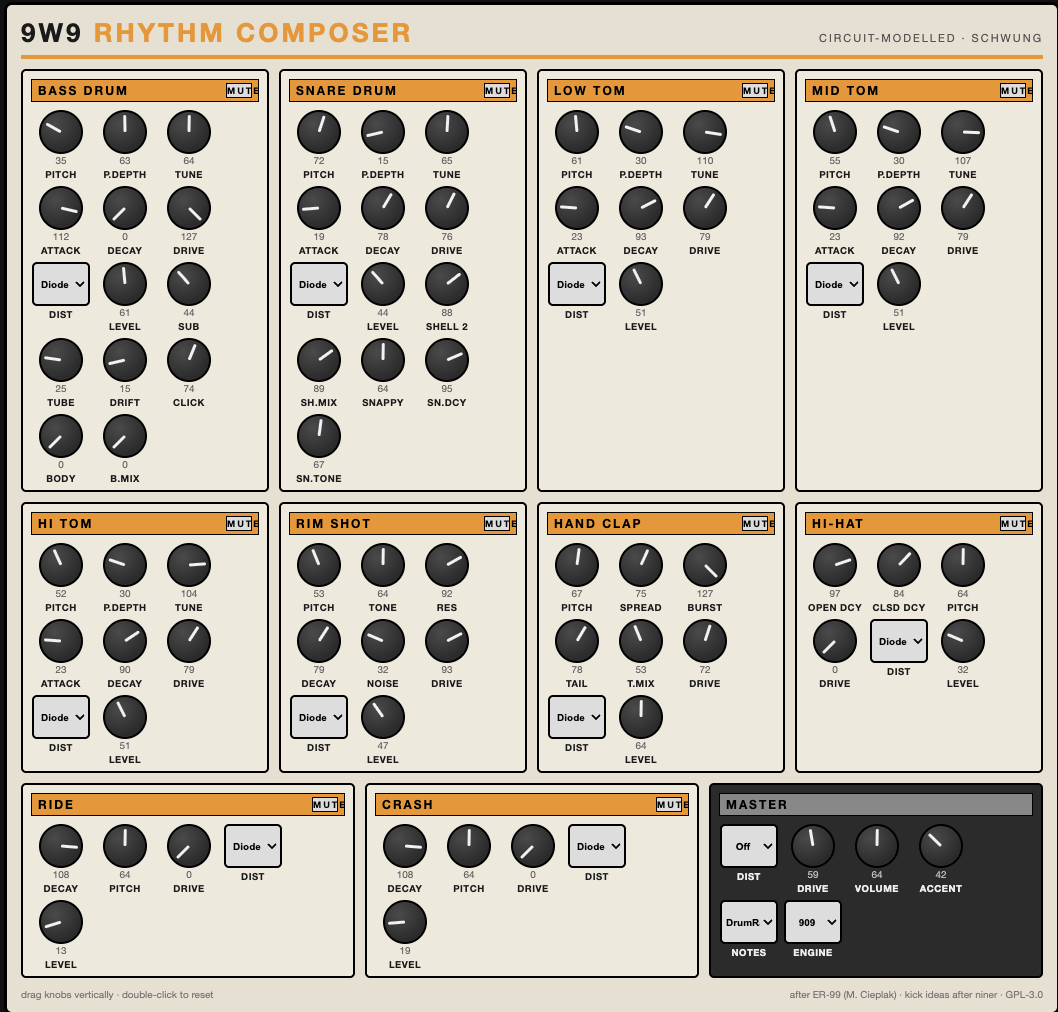
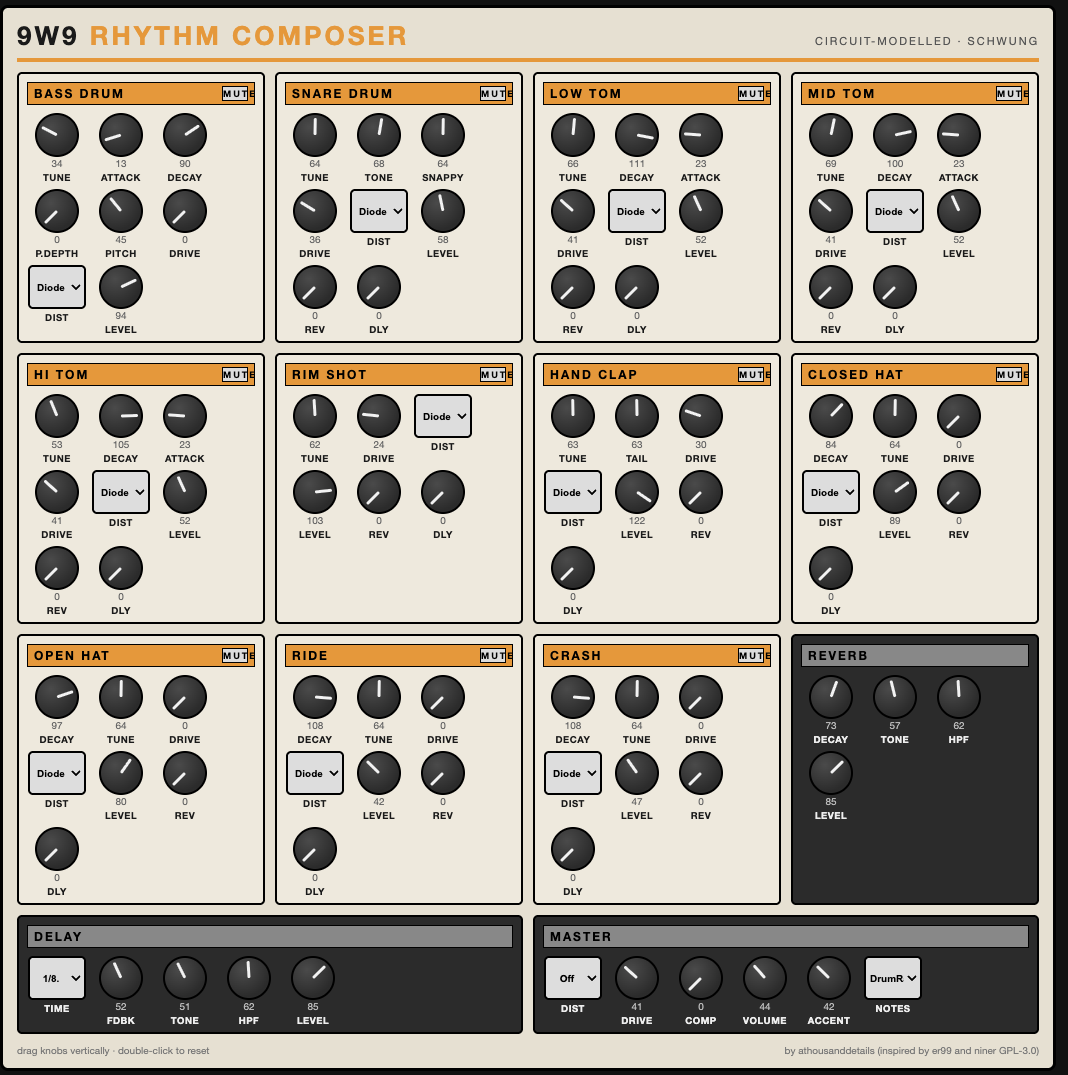
Ship the panel and the help with the module; README for the rebuilt kit
deploy.sh never copied web_ui.html or help.json. Every deploy since the
module was first installed shipped new DSP alongside the remote panel
from whenever someone last unpacked a tarball — on this device, Aug 15,
before the whole voice rebuild. That is why the browser editor still
showed controls the engine had stopped having and had no send FX. Both
files now go over with the rest, through the same atomic .new + mv.

help.json had the same staleness in its content: it described Sub, Tube,
Drift and a 'BD MORE page', none of which exist. Rewritten, with the
Main-page lock and the send FX added.

README rewritten against what the module actually is now: seven
distortions instead of four, the send FX and their tempo-synced delay
divisions, the Comp, the Main-page lock, the FX pads, and voice
descriptions that match the rebuilt circuits. The credits no longer
claim the ER-99 engine is selectable (it was deleted) or that the kick
follows niner's architecture (also deleted); ER-99 keeps the credit it
is owed for the samples and for being where this started.

Screenshots replaced with the current pages: bass drum, hand clap,
delay, main, and the remote panel.

docs/porting-to-6w6-8w8.md is a handoff for the 6W6 and 8W8 sessions,
covering the distortion stage, the lock and the send FX — including the
state-migration trap those two repos have (pot positions and enum
indices are stored positionally, and deserialize ignores the version
[…]

diff --git a/README.md b/README.md
@@ -4,34 +4,79 @@ A TR-909 style drum machine for [Schwung](https://github.com/charlesvestal/schwu
 on Ableton Move. Circuit-modelled kick, snare, toms, rim shot and hand clap;
 sampled hi-hats, ride and crash — the same split the real TR-909 used.
 
-![9W9 on the Move](docs/device-ui1.png)
-![9W9 editor pages](docs/device-ui2.png)
-![9W9 on the device](docs/device-ui3.png)
+![Bass Drum page](docs/device-ui1.png)
+![Hand Clap page](docs/device-ui2.png)
+![Delay page](docs/device-ui3.png)
+![Main page](docs/device-ui4.png)
 
 ## Voices
 
+9W9 models the circuit, then checks the result against hardware recordings;
+where the two disagree, the schematic wins and the sound is re-fitted.
+
 | Voice | Engine |
 |---|---|
-| Bass Drum | Diode-rounded triangle, pitch sweep, beater click (impulse + LP noise), **sub layer**, **asymmetric tube stage**, **per-hit drift** |
-| Snare | Two tuned shells + snappy noise with its own envelope and tone |
-| Toms (L/M/H) | Body oscillator pair with pitch sweep |
-| Rim Shot | Trigger pulse shock-exciting two resonators (body "tock" + edge "tick") |
-| Hand Clap | Noise through a bandpass, gated by a 3-pulse burst + room tail |
-| Hats / Ride / Crash | Sampled — the real 909's cymbals are 6-bit PCM, so this is accuracy, not shortcut |
+| Bass Drum | VCO at a fixed ~49 Hz base with the 909's additive-exponential sweep, 16 ms pitch hold, diode rounding and beater click. **Tune** is the sweep ladder, exactly as on the panel. Optional **Pitch / P.Depth** modulation, gated so it does nothing at all until P.Depth leaves zero |
+| Snare | Two shells a 1.585 ratio apart off one CV, plus the ENV4 noise channel — 24 ms plateau, accelerated fall, and the VCA's soft cutoff knee rather than a hard gate. Panel is the 909's own: Tune, Tone, Snappy, Level |
+| Toms (L/M/H) | Three VCOs per drum at the measured 1 : 1.50 : 2.75 partials, the upper two attack-only. Tune ranges are trimmed so the three toms cannot be tuned onto each other, like the hardware |
+| Rim Shot | Trigger pulse shock-exciting two resonators — body "tock" and edge "tick" |
+| Hand Clap | Four rising echoes 12 ms apart into a noise band, with the room tail running off the main hit |
+| Hats / Ride / Crash | Sampled — the real 909's cymbals are 6-bit PCM, so this is accuracy, not shortcut. Closed and open hat have their own pages and choke each other |
 
-Every voice has **Drive** and a **Distortion type** (Diode / Hard Clip /
-Wavefolder / Bitcrush), plus a **Master Drive/Distortion** across the kit.
+Every voice has **Drive** and a **Distortion type**, plus a **Master
+Drive/Distortion** across the kit. Seven characters, transparent at the bottom
+of the Drive range and growing from there:
+
+| | |
+|---|---|
+| **Diode** | the 909's own back-to-back diode rounding |
+| **Clip** | asymmetric soft clip, even harmonics and all |
+| **SAT** | warm parallel saturation that keeps the transient |
+| **BFZ** | thick fuzz wall |
+| **PDIST** | biased cubic crunch |
+| **Fold** | wavefolder, metallic without hollowing the note out |
+| **Crush** | bit depth and sample rate falling together |
+
 Every continuous control is a **0–127 pot**, like the hardware — no Hz, no ms.
+
+## Send FX
+
+Two send effects, on their own pages at the end of the list. Every voice
+**except the kick** has a **Rev** and **Dly** send; the kick stays dry on
+purpose. The returns join the bus before the master stages, so Master
+Drive/Distortion and the Comp work on the wet signal too.
+
+- **Reverb** — four combs and two allpasses with the loop quantised to 12
+  bits, for the early-rack grain. Decay, Tone (loop damping), HPF, Level.
+- **Delay** — **Time is a note division**, synced to Move's tempo: 1/32,
+  1/16T, 1/16, 1/8T, 1/16., 1/8, 1/4T, 1/8., 1/4, 1/2T, 1/4., 1/2, 1/2.
+  The line is slewed, so changing tempo or division warps the echo like tape
+  instead of clicking. Fdbk, Tone, HPF, Level.
+
+Each has an input **HPF** so low end can be kept out of the wet path.
+
+## Master
+
+**Master Dist** and **Drive** across the kit, a one-knob **Comp** for glue
+(hard bypass at zero, with AutoGain fitted so loudness stays flat as you turn
+it up), **Volume**, **Accent**, and the **Note Map** switch. There is no
+always-on compressor or limiter anywhere else in the signal path.
 
 ## Workflow on the Move
 
 - **Pads (left 4×4)** play and select drums; the parameter page follows what
   you hit. **Shift+Pad** selects silently (works during playback).
   **Mute+Pad** mutes that drum (`[M]` in the title bar).
+- The **last two pads** open **Reverb** and **Delay**; the pad after the kit
+  opens **Main**. These three only switch the page — they never sound.
+- **Main-page lock:** press the **jog while on Main** to lock it (`[L]` in
+  the title bar). Pads still play and record, but the page stops following
+  them, so the master knobs stay under your hands while you jam. Shift+Pad
+  still selects, and another jog click unlocks.
 - **Knobs 1–8** edit the visible page, drawn with Schwung's stock
   Movy-style knob grid (host 0.12.1+): **jog** cycles pages, **Shift+Jog**
   jumps sections, **jog click** opens the section list, **Shift** reveals
-  values / fine mode, **Mute+knob** resets a pot. Pad 16 opens **Master**.
+  values / fine mode, **Mute+knob** resets a pot.
 - **Sequencing:** use Move's own sequencer — a drum track with a kit, muted
   (HiJack), track MIDI OUT on the slot's channel. Each drum is its own lane.
   Note map: drum rack (36–46, default) or General MIDI, switchable.
@@ -42,7 +87,7 @@ Every continuous control is a **0–127 pot**, like the hardware — no Hz, no m
 
 A full 909-style editor in the browser — every drum section with draggable
 knobs, per-drum **MUTE** buttons (synced with Mute+Pad on the device),
-distortion selectors, and the Master section. Open
+distortion selectors, the Reverb and Delay sections, and Master. Open
 `move.local:7700/remote-ui` while 9W9 is the slot's synth.
 
 ![9W9 remote panel](docs/remote-ui.png)
@@ -64,29 +109,28 @@ Requires Docker (cross-compiles for the Move's ARM64, pinned to glibc 2.35):
 
 `scripts/build.sh er99_loadtest` builds an on-device test that dlopens the real
 `dsp.so` exactly as Schwung's chain host does and verifies parameters, state
-round-trip, sequencer audio and mutes end to end.
+round-trip, sequencer audio, mutes, the hat choke, channel balance and the
+send FX end to end.
 
 ## Credits and provenance
 
 9W9 stands on other people's work and says so:
 
 - **[ER-99](https://github.com/matthewcieplak/er-99)** by Matthew Cieplak
-  (GPL-3.0) — the project 9W9 started from. The engine began as a faithful C
-  port of ER-99's Web Audio graph, and the **hi-hat, ride and crash samples
-  ship directly from ER-99**. The original ER-99 voice engine is still
-  included and selectable (`Engine: er-99`).
-- **[niner](https://github.com/hyperfocusdsp/niner)** by hyperfocusdsp
-  (GPL-3.0) — the kick architecture (layered sub, stacked saturation stages,
-  per-hit drift) is modelled on niner's design. No code was copied; the ideas
-  were.
+  (GPL-3.0) — the project 9W9 started from. The engine began as a C port of
+  ER-99's Web Audio graph. That engine has since been replaced voice by voice
+  with circuit models and removed, but the **hi-hat, ride and crash samples
+  ship directly from ER-99** and 9W9 would not exist without it.
 - **[Movy](https://github.com/DimaDake/schwung-movy)** by DimaDake (MIT) —
   the on-device knob-dial look is drawn after Movy's renderer, and the Movy
   integration template follows its documented format.
 - **[Schwung](https://github.com/charlesvestal/schwung)** by Charles Vestal
   and contributors — the framework that makes any of this possible.
-- TR-909 voice behaviour informed by the
-  [Network-909 circuit analysis](http://www.network-909.de/circuit.htm) and
-  the [firstpr.com.au TR-909 sound-mod notes](https://www.firstpr.com.au/rwi/tr-909/TR-909-Sound-Mods.pdf)
+- Voice behaviour worked out from the **TR-909 service notes** (schematics and
+  scope traces), the
+  [Network-909 circuit analysis](http://www.network-909.de/circuit.htm), Colin
+  Fraser's TR-909 bass drum analysis, and the
+  [firstpr.com.au TR-909 sound-mod notes](https://www.firstpr.com.au/rwi/tr-909/TR-909-Sound-Mods.pdf)
   (Pitch / Tune-Depth / Tune-Decay behaviour).
 
 This project was developed with AI assistance (Claude), with human direction
@@ -102,8 +146,7 @@ reports: all welcome. Please note in your PR which AI tools you used, if any
 ## License
 
 GPL-3.0 — see [LICENSE](LICENSE). ER-99-derived code and samples keep their
-GPL-3.0 licensing; niner is credited as design inspiration under the same
-license family.
+GPL-3.0 licensing.
 
 ## Disclaimer
 
